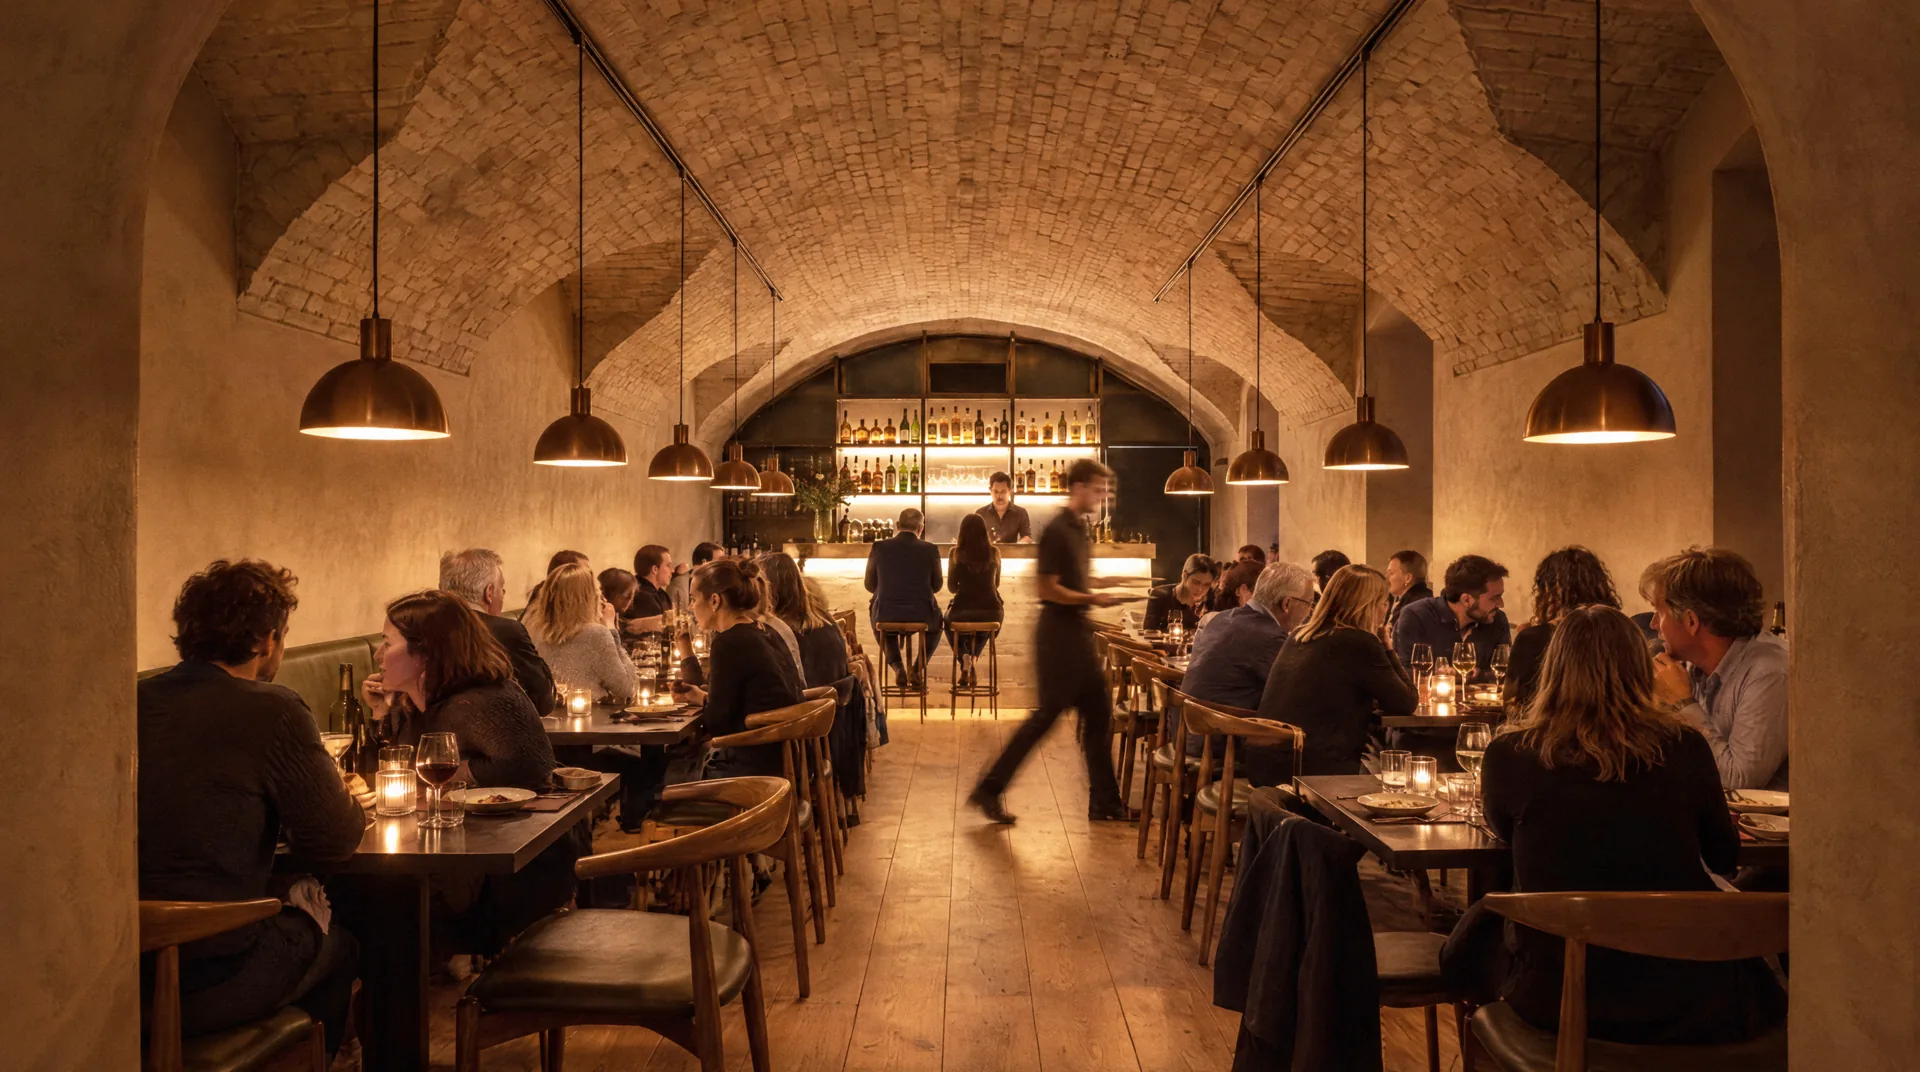
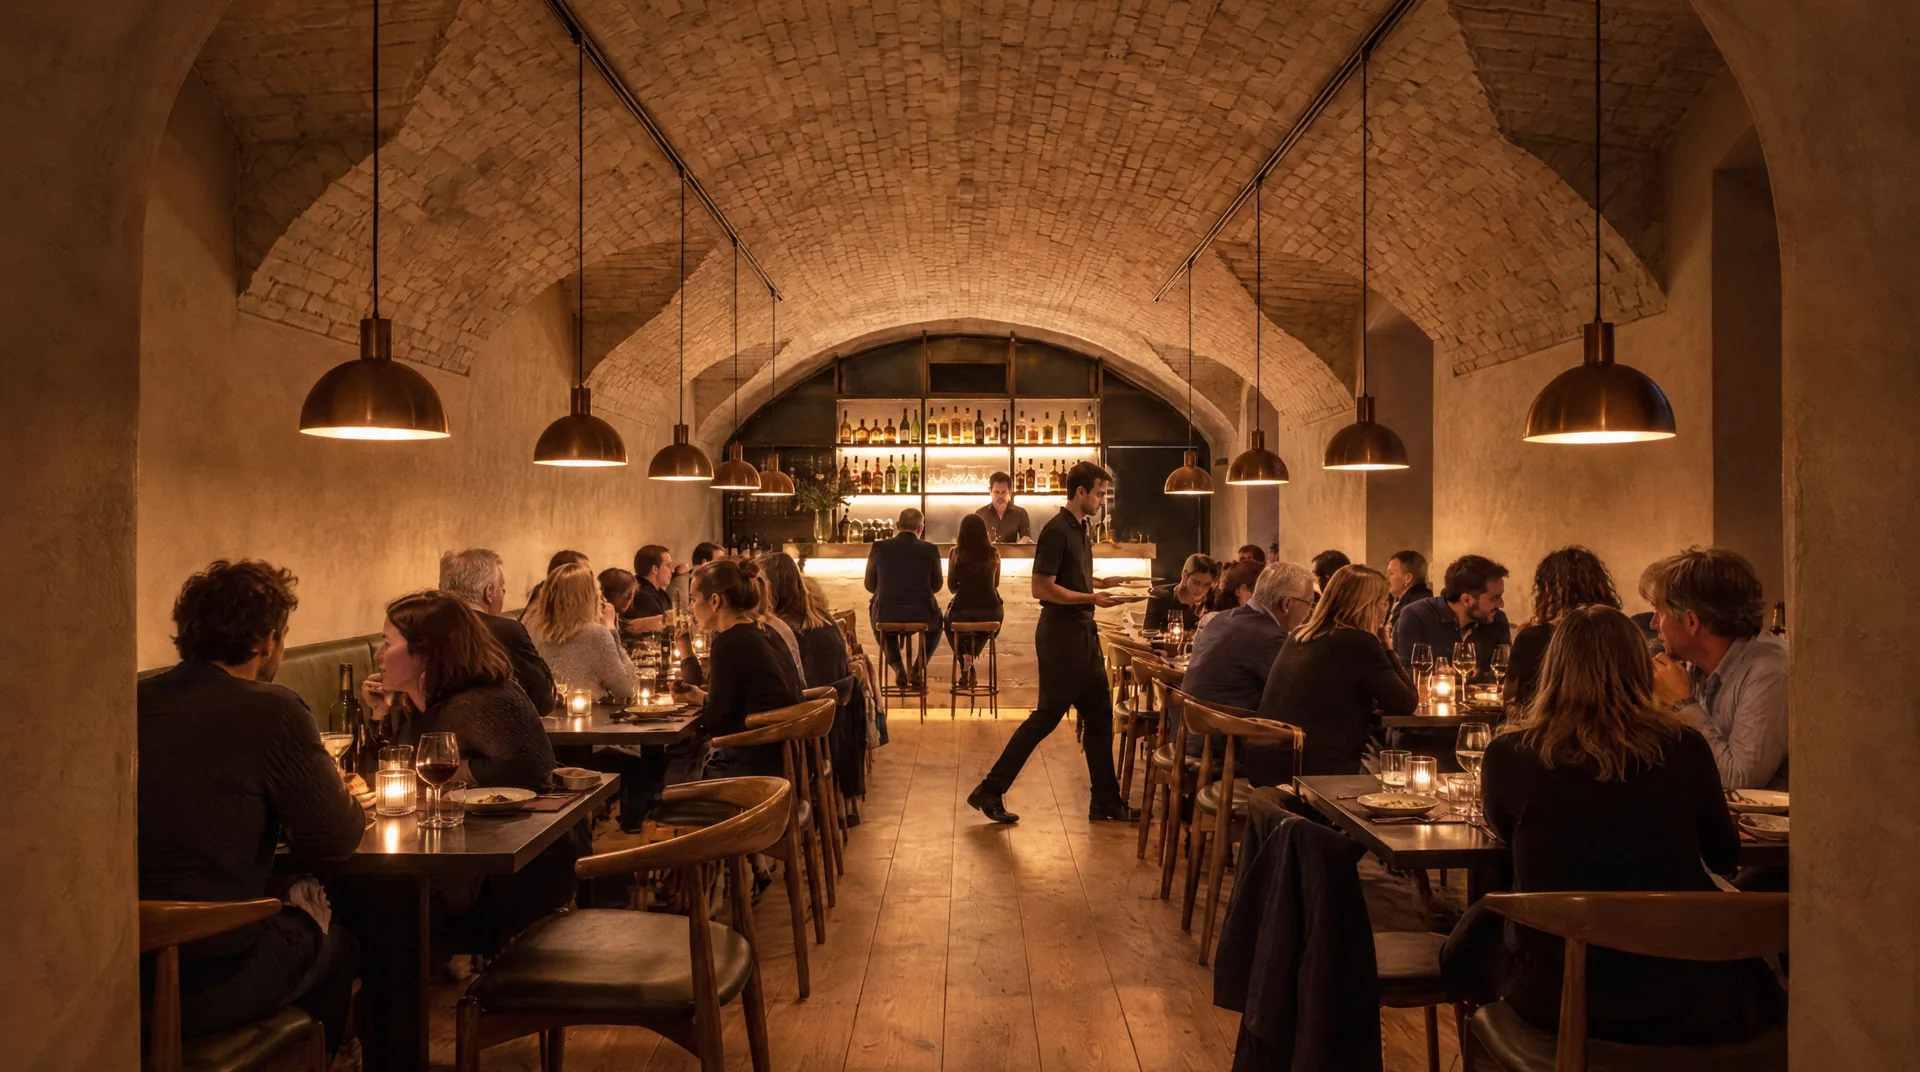
Room photo: sharp waiter, slightly darker evening exposure
Claude-Session: https://claude.ai/code/session_011vqFLFDv7vsNPGYrLaF2GH

Changed region(s): [[0.5, 0.431, 0.625, 0.7696]]

diff --git a/index.html b/index.html
@@ -79,8 +79,8 @@
              sizes="(min-width: 761px) 160vw, 300vw" alt="" decoding="async">
       </div>
       <div class="layer layer--int" data-layer="int">
-        <img src="assets/web/interior-main-1920.webp?v=r3"
-             srcset="assets/web/interior-main-960.webp?v=r3 960w, assets/web/interior-main-1920.webp?v=r3 1920w, assets/web/interior-main-2880.webp?v=r3 2880w"
+        <img src="assets/web/interior-main-1920.webp?v=r4"
+             srcset="assets/web/interior-main-960.webp?v=r4 960w, assets/web/interior-main-1920.webp?v=r4 1920w, assets/web/interior-main-2880.webp?v=r4 2880w"
              sizes="100vw" alt="Inside: a long limewashed brick vault, oak tables, olive leather banquette, bronze pendant lights and a travertine bar at the far end." decoding="async">
       </div>
       <div class="glow" data-layer="glow"></div>
